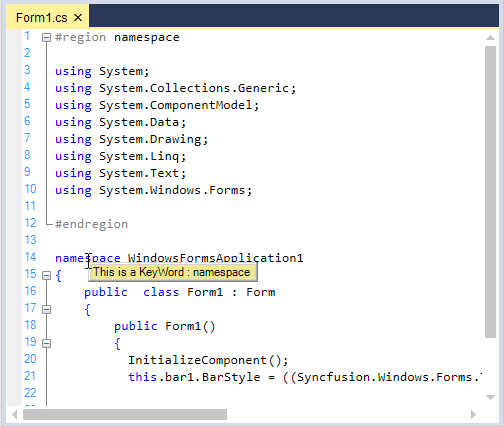
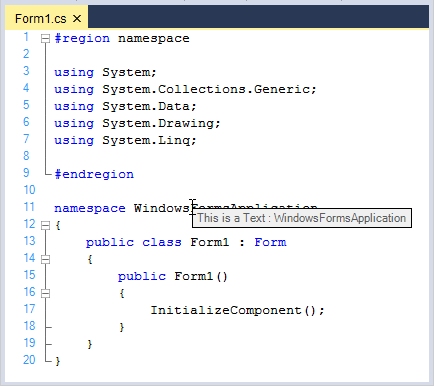
WF-41655 Cleared the spell error and modified images in syntax highlighting topics and committed.

Changed region(s): [[0.0, 0.0, 1.0, 0.9948], [0.1797, 0.8705, 0.2097, 0.9016]]

diff --git a/WindowsForms/SyntaxEditor/syntax-highlighting.md b/WindowsForms/SyntaxEditor/syntax-highlighting.md
@@ -9,7 +9,7 @@ documentation: ug
 
 # Syntax Highlighting 
 
-Provides built-in syntax highlighting support for popular languages like SQL, Delphi or Pascal, HTML, VB.NET, XML, Java, VBScript, Jscript, PowerShell and C#.
+Provides built-in syntax highlighting support for popular languages like SQL, Delphi or Pascal, HTML, VB.NET, XML, Java, VBScript, JScript, PowerShell and C#.
 
 ## Configure built in language
 
@@ -849,18 +849,22 @@ Error lexems can be added to the language by declaring a format names Error and 
 
 ### Splits
 
-Splits helps to configure two different words as a single. For example, consider . and using that can be treated as single word by using `Split` configuration.
-
-For example: `int` and `using` are keywords in the EditControl. By using the Splits concept in the EditControl, you can ignore this keyword when it is preceded with a Dot. When .public is loaded in the EditControl, public is not highlighted as keyword. 
+Splits helps to configure two different words as a single. For example, consider # and include that can be treated as single word by using `Split` configuration.
 
 {% highlight xaml %}
 
+<formats>
+  <format name="KeyWord" Font="Courier New, 14pt" FontColor="Orange" />
+</formats>
+
+<lexems>
+   <lexem BeginBlock="#include" Type="KeyWord" />
+</lexems>
+
 <splits>
-  <split>.int</split>
-  <split>.using</split>
+  <split>#include</split>
 </splits>
 
-{% endhighlight %}
 
 ![](Syntax-Highlighting-and-Code-Coloring_images/Syntax-Highlighting-and-Code-Coloring_img38.png)
 
@@ -992,6 +996,33 @@ Me.editControl1.ApplyConfiguration(currentConfigLanguage)
 
 {% endtabs %}
 
+### Font configuration
+
+Font color of newly created format in the specified language can be customized using `FontColor` property of Format tag. 
+
+{% tabs %}
+
+{% highlight C# %}
+
+ formatMethod.Font = new Font("Garamond", 17);
+
+ formatMethod.FontColor = Color.Red;
+
+{% endhighlight %}
+
+
+{% highlight VB %}
+
+formatMethod.Font = new Font("Garamond", 17)
+
+ formatMethod.FontColor = Color.Red
+
+{% endhighlight %}
+
+{% endtabs %}
+
+![](Syntax-Highlighting-and-Code-Coloring_images/Syntax-Highlighting-and-Code-Coloring_img17.png)
+
 ### Format configuration
 
 Create a custom format object by using the `Language.Add` method of the Edit Control and define its attributes.
@@ -1028,33 +1059,6 @@ formatMethod.BackColor = Color.Yellow
 {% endhighlight %}
 
 {% endtabs %}
-
-### Font configuration
-
-Font color of newly created format in the specified language can be customized using `FontColor` property of Format tag. 
-
-{% tabs %}
-
-{% highlight C# %}
-
- formatMethod.Font = new Font("Garamond", 17);
-
- formatMethod.FontColor = Color.Red;
-
-{% endhighlight %}
-
-
-{% highlight VB %}
-
-formatMethod.Font = new Font("Garamond", 17)
-
- formatMethod.FontColor = Color.Red
-
-{% endhighlight %}
-
-{% endtabs %}
-
-![](Syntax-Highlighting-and-Code-Coloring_images/Syntax-Highlighting-and-Code-Coloring_img17.png)
 
 ### Lexem configuration
 
@@ -1215,7 +1219,11 @@ Me.editControl1.Language.Lexems.Add(Symbol)
 
 ![](Syntax-Highlighting-and-Code-Coloring_images/Syntax-Highlighting-and-Code-Coloring_img20.png)
 
-### Color configuration
+### Regex configuration
+
+A regular expression is a pattern that could be matched against any input text. 
+
+#### Color configuration
 
 Color configuration for custom formats can be defined using built-in color properties such as FontColor, BackColor, ForeColor, LineColor and BorderColor.
 
@@ -1303,21 +1311,34 @@ Dim Error As ISnippetFormat = Me.editControl1.Language.Add("Error")
 
 {% endtabs %}
 
+![](Syntax-Highlighting-and-Code-Coloring_images/Syntax-Highlighting-and-Code-Coloring_img18.png)
+
 ### Splits configuration
 
-Splits contain a list of expressions that must be treated as one word.
-
-For example: `car` is Keyword in the EditControl. By using the Splits concept in the EditControl, you can ignore this Keyword when it is preceded with a Dot. When .car is loaded in the EditControl, car is not highlighted as keyword. 
+Splits helps to configure two different words as a single. For example, consider # and region that can be treated as single word by using `Split` configuration.
 
 {% tabs %}
 
 {% highlight C# %}
 
+ISnippetFormat keyword = this.editControl1.Language.Add("keyword");
+
+keyword.FontColor = Color.Orange;
+
+keyword.Font = new Font("Garamond", 14);
+
+
+ConfigLexem region = new ConfigLexem("#region", "", FormatType.Custom, false);
+
+region.FormatName = "keyword";
+
+this.editControl1.Language.Lexems.Add(region);
+
 // Adding the necessary split definitions to the current language's Splits collection.
 
 Split split = new Split();
 
-split.Text = "car";
+split.Text = "#region";
 
 this.editControl1.Language.Splits.Add(split);
 
@@ -1326,11 +1347,24 @@ this.editControl1.Language.Splits.Add(split);
 
 {% highlight VB %}
 
+Dim keyword As ISnippetFormat = Me.editControl1.Language.Add("keyword")
+
+keyword.FontColor = Color.Orange
+
+keyword.Font = new Font("Garamond", 14)
+
+
+Dim region As ConfigLexem  = new ConfigLexem("#region", "",FormatType.Custom,false)
+
+region.FormatName = "keyword"
+
+Me.editControl1.Language.Lexems.Add(region)
+
 ' Adding the necessary split definitions to the current language's Splits collection.
 
 Dim split As  Split  = new Split();
 
-split.Text = "car";
+split.Text = "#region";
 
 Me.editControl1.Language.Splits.Add(split)
 

diff --git a/WindowsForms/SyntaxEditor/Intellisense.md b/WindowsForms/SyntaxEditor/Intellisense.md
@@ -917,18 +917,20 @@ Support provided to customize the size, background, font and border color of `Co
 
 {% highlight C# %}
 
-this.editControl1.ContextPromptBackgroundBrush = new Syncfusion.Drawing.BrushInfo(Syncfusion.Drawing.GradientStyle.BackwardDiagonal, System.Drawing.Color.PapayaWhip, System.Drawing.Color.LemonChiffon);
+this.editControl1.ContextPromptBackgroundBrush = new Syncfusion.Drawing.BrushInfo(Syncfusion.Drawing.GradientStyle.BackwardDiagonal, System.Drawing.Color.PapayaWhip, System.Drawing.Color.SkyBlue);
 
 {% endhighlight %}
 
 
 {% highlight VB %}
 
-Me.editControl1.ContextPromptBackgroundBrush = New Syncfusion.Drawing.BrushInfo(Syncfusion.Drawing.GradientStyle.BackwardDiagonal, System.Drawing.Color.PapayaWhip, System.Drawing.Color.LemonChiffon)
+Me.editControl1.ContextPromptBackgroundBrush = New Syncfusion.Drawing.BrushInfo(Syncfusion.Drawing.GradientStyle.BackwardDiagonal, System.Drawing.Color.PapayaWhip, System.Drawing.Color.SkyBlue)
 
 {% endhighlight %}
 
 {% endtabs %}
+
+![](Intellisense-images/Intellisense_img11.png)
 
 ### Border
 
@@ -951,9 +953,11 @@ Me.editControl1.ContextPromptBorderColor = System.Drawing.Color.Pink
 
 {% endtabs %}
 
+![](Intellisense-images/Intellisense_img12.png)
+
 ### Size
 
-`ContextPromptSize` helps to customize the size of `ContextPrompt` popup window. 
+`ContextPromptCustomSize` helps to customize the size of `ContextPrompt` popup window. 
 
 <table>
 <tr>
@@ -962,7 +966,7 @@ Properties</th><th>
 Description</th></tr>
 <tr>
 <td>
-ContextPromptSize</td><td>
+ContextPromptCustomSize</td><td>
 Specifies the size of the Context Prompt form</td></tr>
 <tr>
 <td>
@@ -991,6 +995,8 @@ Me.editControl1.UseCustomSizeContextPrompt = True
 {% endhighlight %}
 
 {% endtabs %}
+
+![](Intellisense-images/Intellisense_img13.png)
 
 ### Advanced customizations
 
@@ -1196,7 +1202,7 @@ End Sub
 
 {% endtabs %}
 
-N> Refer to the following sample link that demonstrates the `ContextPrompt` functionalities of EditContol.
+N> Refer to the following sample link that demonstrates the `ContextPrompt` functionalities of EditControl.
 C:\Users\&lt;User&gt;\AppData\Local\Syncfusion\Essential Studio\Version Number\Windows\Edit.Windows\Samples\Intellisense Functions\Advanced Intellisense
 
 ## Configure context tooltip
@@ -1357,7 +1363,7 @@ Me.editControl1.CloseContextTooltip();
 
 {% endtabs %}
 
-N> Refer to the following sample link that demonstrates the `ContextTooltip` behaviour in EditControl.
+N> Refer to the following sample link that demonstrates the `ContextTooltip` behavior in EditControl.
 C:\Users\&lt;User&gt;\AppData\Local\Syncfusion\Essential Studio\Version Number\Windows\Edit.Windows\Samples\Intellisense Functions\Context Tooltip
 
 ## Auto complete

diff --git a/WindowsForms/SyntaxEditor/Getting-Started.md b/WindowsForms/SyntaxEditor/Getting-Started.md
@@ -186,7 +186,7 @@ Me.editControl1.LoadFile(Path.GetDirectoryName(Application.ExecutablePath) + @"\
 
 ## Syntax highlighting
 
-EditControl offers mostly used languages like C#, VB, XML, HTML, Jscript, Powershell, SQL as built-in and also provides support to configure new custom language based on requirement.
+EditControl offers mostly used languages like C#, VB, XML, HTML, JScript, PowerShell, SQL as built-in and also provides support to configure new custom language based on requirement.
 
 **Built-in syntax highlighting languages**
 

diff --git a/WindowsForms/SyntaxEditor/Appearance.md b/WindowsForms/SyntaxEditor/Appearance.md
@@ -291,7 +291,7 @@ N> The SingleLineMode is intended for use, only when the EditControl contains sm
 
 ![](Appearance_images/Appearance_img4.jpg)
 
-N> Refer to the following sample link that demonstrates the `SingleLineMode` behaviour of EditControl.
+N> Refer to the following sample link that demonstrates the `SingleLineMode` behavior of EditControl.
 C:\Users\&lt;User&gt;\AppData\Local\Syncfusion\Essential Studio\Version Number\Windows\Edit.Windows\Samples\Styles\Single Line Mode
 
 ## Right-to-left (RTL) support 
